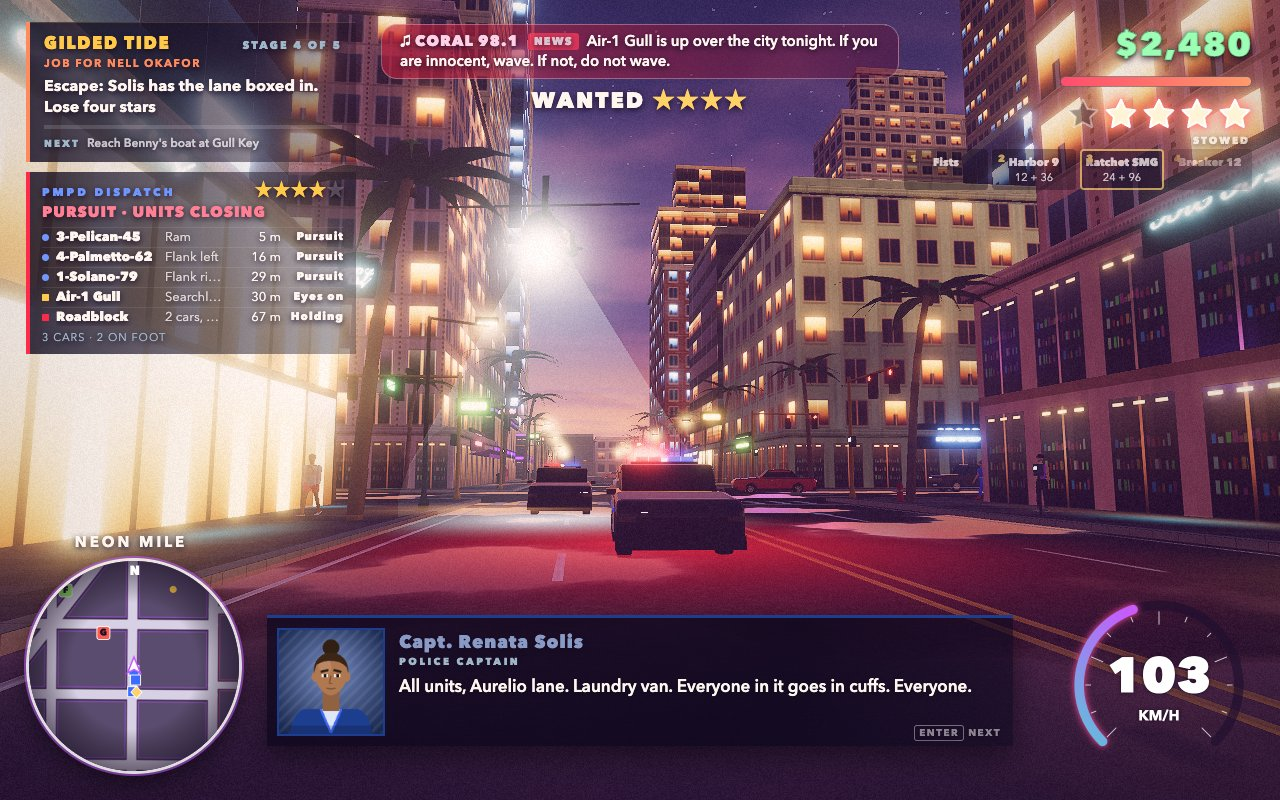
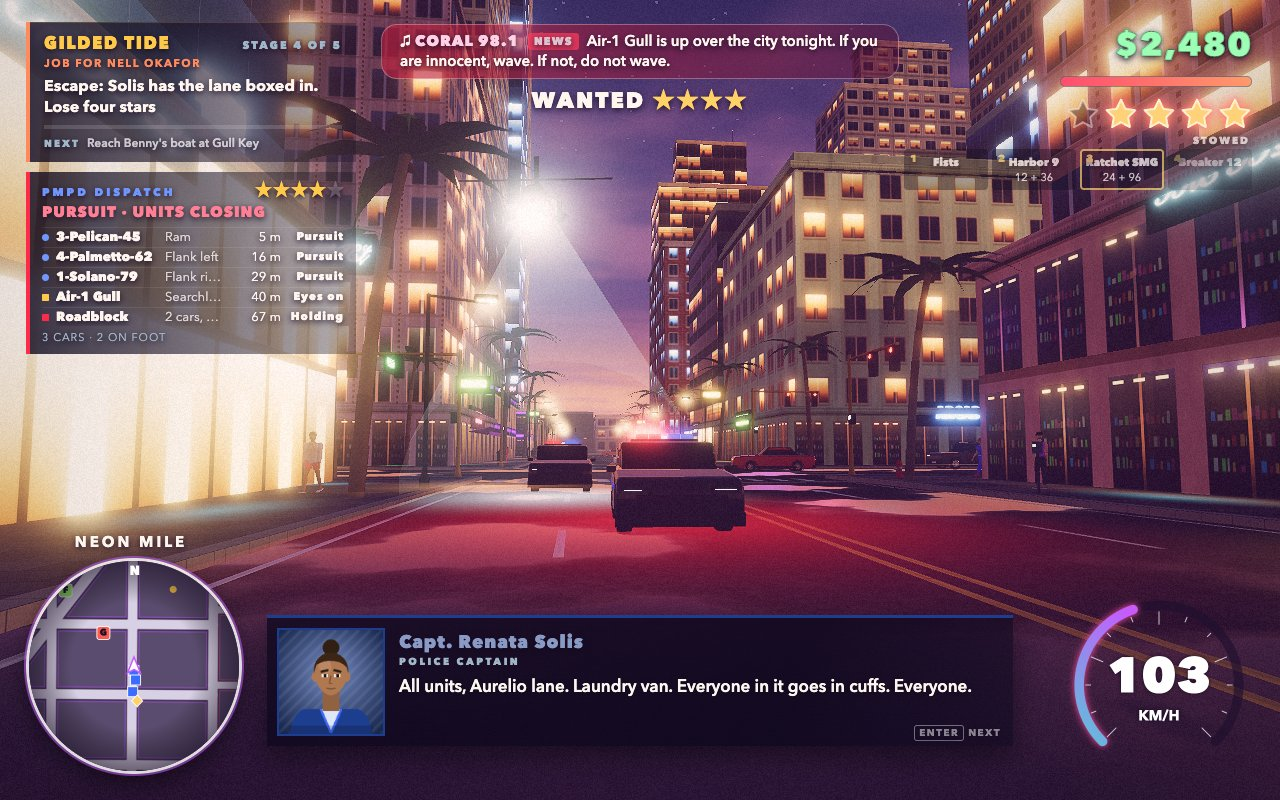
test: walk-through opens the map, takes Headline through two stages and calls it off, drives a full Rask Cabs fare; perf --scene=mission for the live chase; gold wanted stars, cover camera meets every look target

diff --git a/game/src/ui/dialoguecard.test.js b/game/src/ui/dialoguecard.test.js
@@ -1,0 +1,23 @@
+// Unit tests for the dialogue card's name colour: dark faction accents are lifted so the name reads on the card.
+import test from 'node:test';
+import assert from 'node:assert/strict';
+import { readableName } from './dialoguecard.js';
+
+const luma = (hex) => {
+  const n = Number.parseInt(hex.slice(1), 16);
+  return (0.2126 * ((n >> 16) & 255) + 0.7152 * ((n >> 8) & 255) + 0.0722 * (n & 255)) / 255;
+};
+
+test('bright accents such as the gold keep their colour', () => {
+  assert.equal(readableName('#ffc94a'), '#ffc94a');
+});
+
+test('police navy and other dark accents are lifted toward white but keep their hue', () => {
+  for (const hex of ['#1e3a8a', '#16203a', '#3b6bff', '#000000']) {
+    const lifted = readableName(hex);
+    assert.ok(luma(lifted) >= 0.42, `${hex} became ${lifted}, still too dark`);
+    assert.notEqual(lifted, '#ffffff');
+  }
+  const navy = Number.parseInt(readableName('#1e3a8a').slice(1), 16);
+  assert.ok((navy & 255) > ((navy >> 16) & 255), 'navy stays blue');
+});

diff --git a/game/src/shotsaction.js b/game/src/shotsaction.js
@@ -132,10 +132,11 @@ export const ACTION_SHOTS = {
           if (index === CHASE.steps - 2 && !game.dialogue.conversation.complete) game.dialogue.conversation.skip();
           if (index !== CHASE.steps - 1) return;
           const p = game.player.state.car.position;
-          Object.assign(police.helicopter.state, { x: p.x + 3, z: p.z + 30, y: p.y + 14, heading: 2.9 });
+          // Air-1 hangs back and higher, so its lamp's glare stays a small spot above the street, not a bloom.
+          Object.assign(police.helicopter.state, { x: p.x + 4, z: p.z + 40, y: p.y + 18, heading: 2.9 });
           police.helicopter.update(1 / 60, { x: p.x, y: p.y, z: p.z }, game.time);
           game.camera.position.set(p.x + 1.6, p.y + 1.35, p.z - 7.5);
-          game.camera.lookAt(p.x - 0.4, p.y + 3.6, p.z + 14);
+          game.camera.lookAt(p.x - 0.4, p.y + 2.9, p.z + 14);
           game.camera.fov = 60;
           game.camera.updateProjectionMatrix();
         },

diff --git a/game/src/ui/hudcombat.css b/game/src/ui/hudcombat.css
@@ -28,9 +28,10 @@
   stroke-width: 1.4;
   stroke-linejoin: round;
 }
+/* Lit stars are warm gold like the WANTED banner and the dispatch stars, outlined in cream. */
 #hud .wanted .star.lit path {
-  fill: #fff4d6;
-  stroke: #ffffff;
+  fill: #ffd27a;
+  stroke: #fff1cc;
   filter: drop-shadow(0 0 5px #ffb347) drop-shadow(0 0 2px #ff4fa0);
 }
 #hud .wanted.searching .star.lit { animation: star-blink 0.7s steps(2, jump-none) infinite; }
